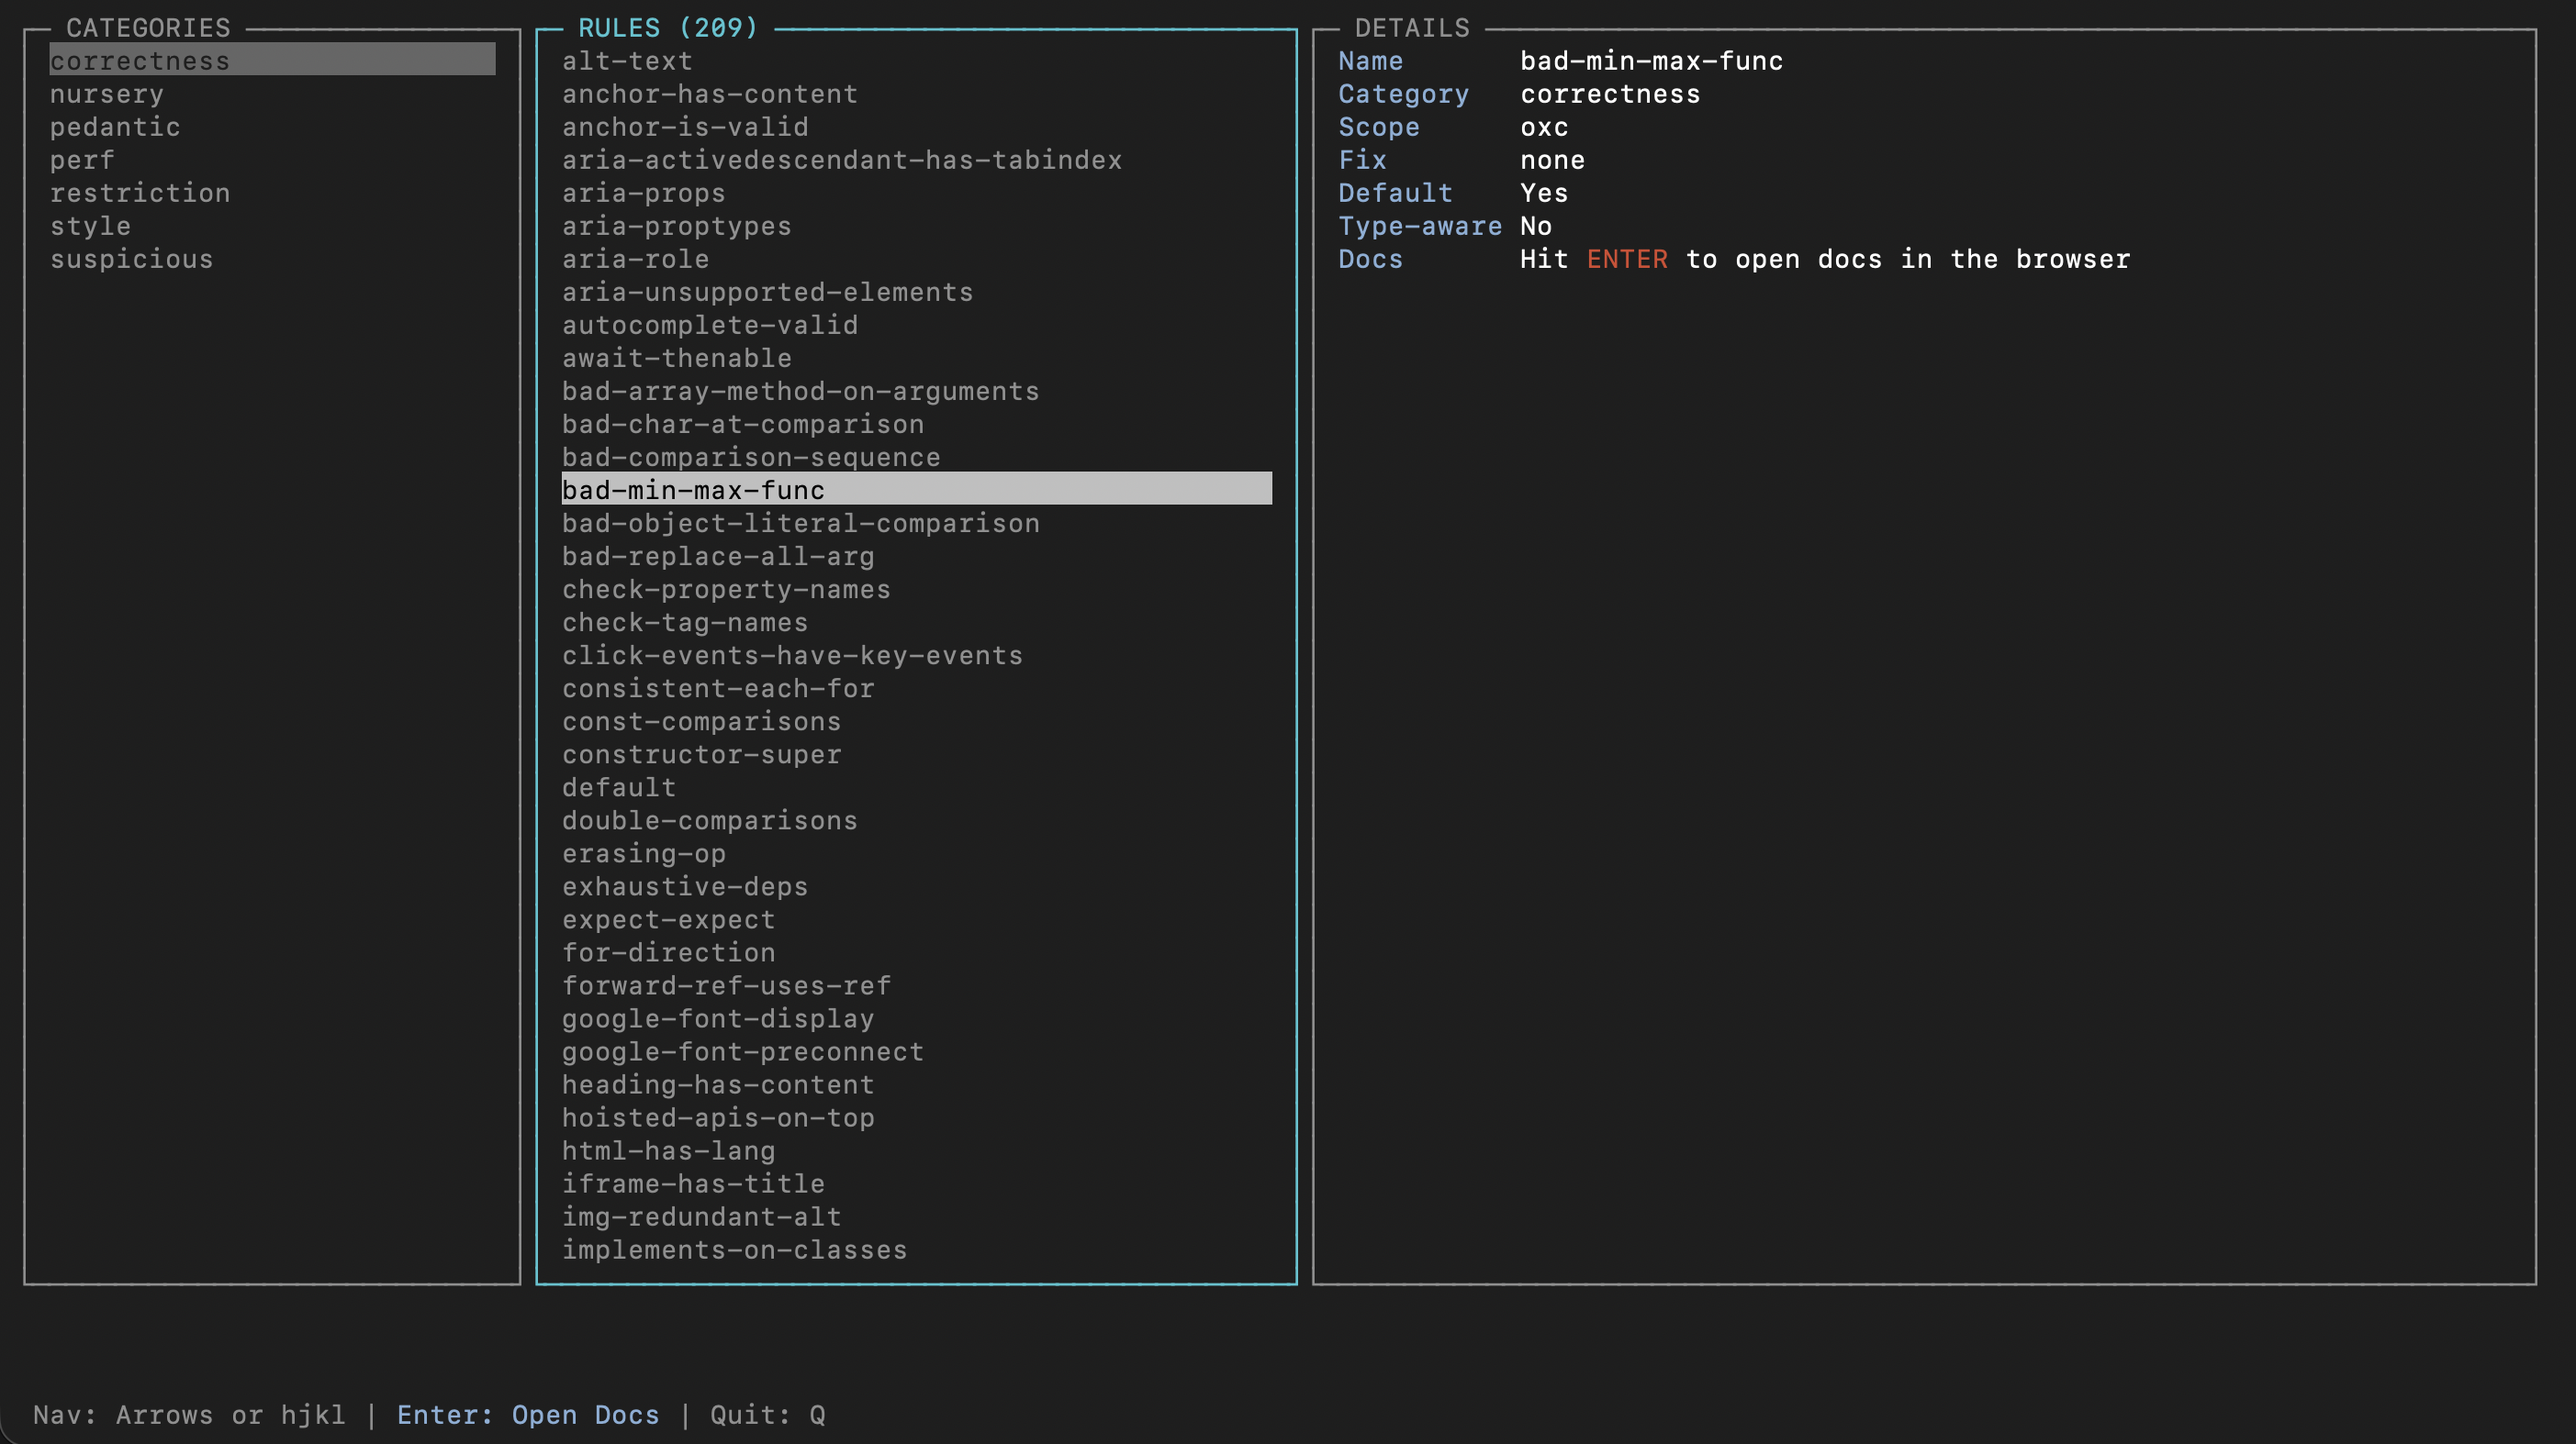
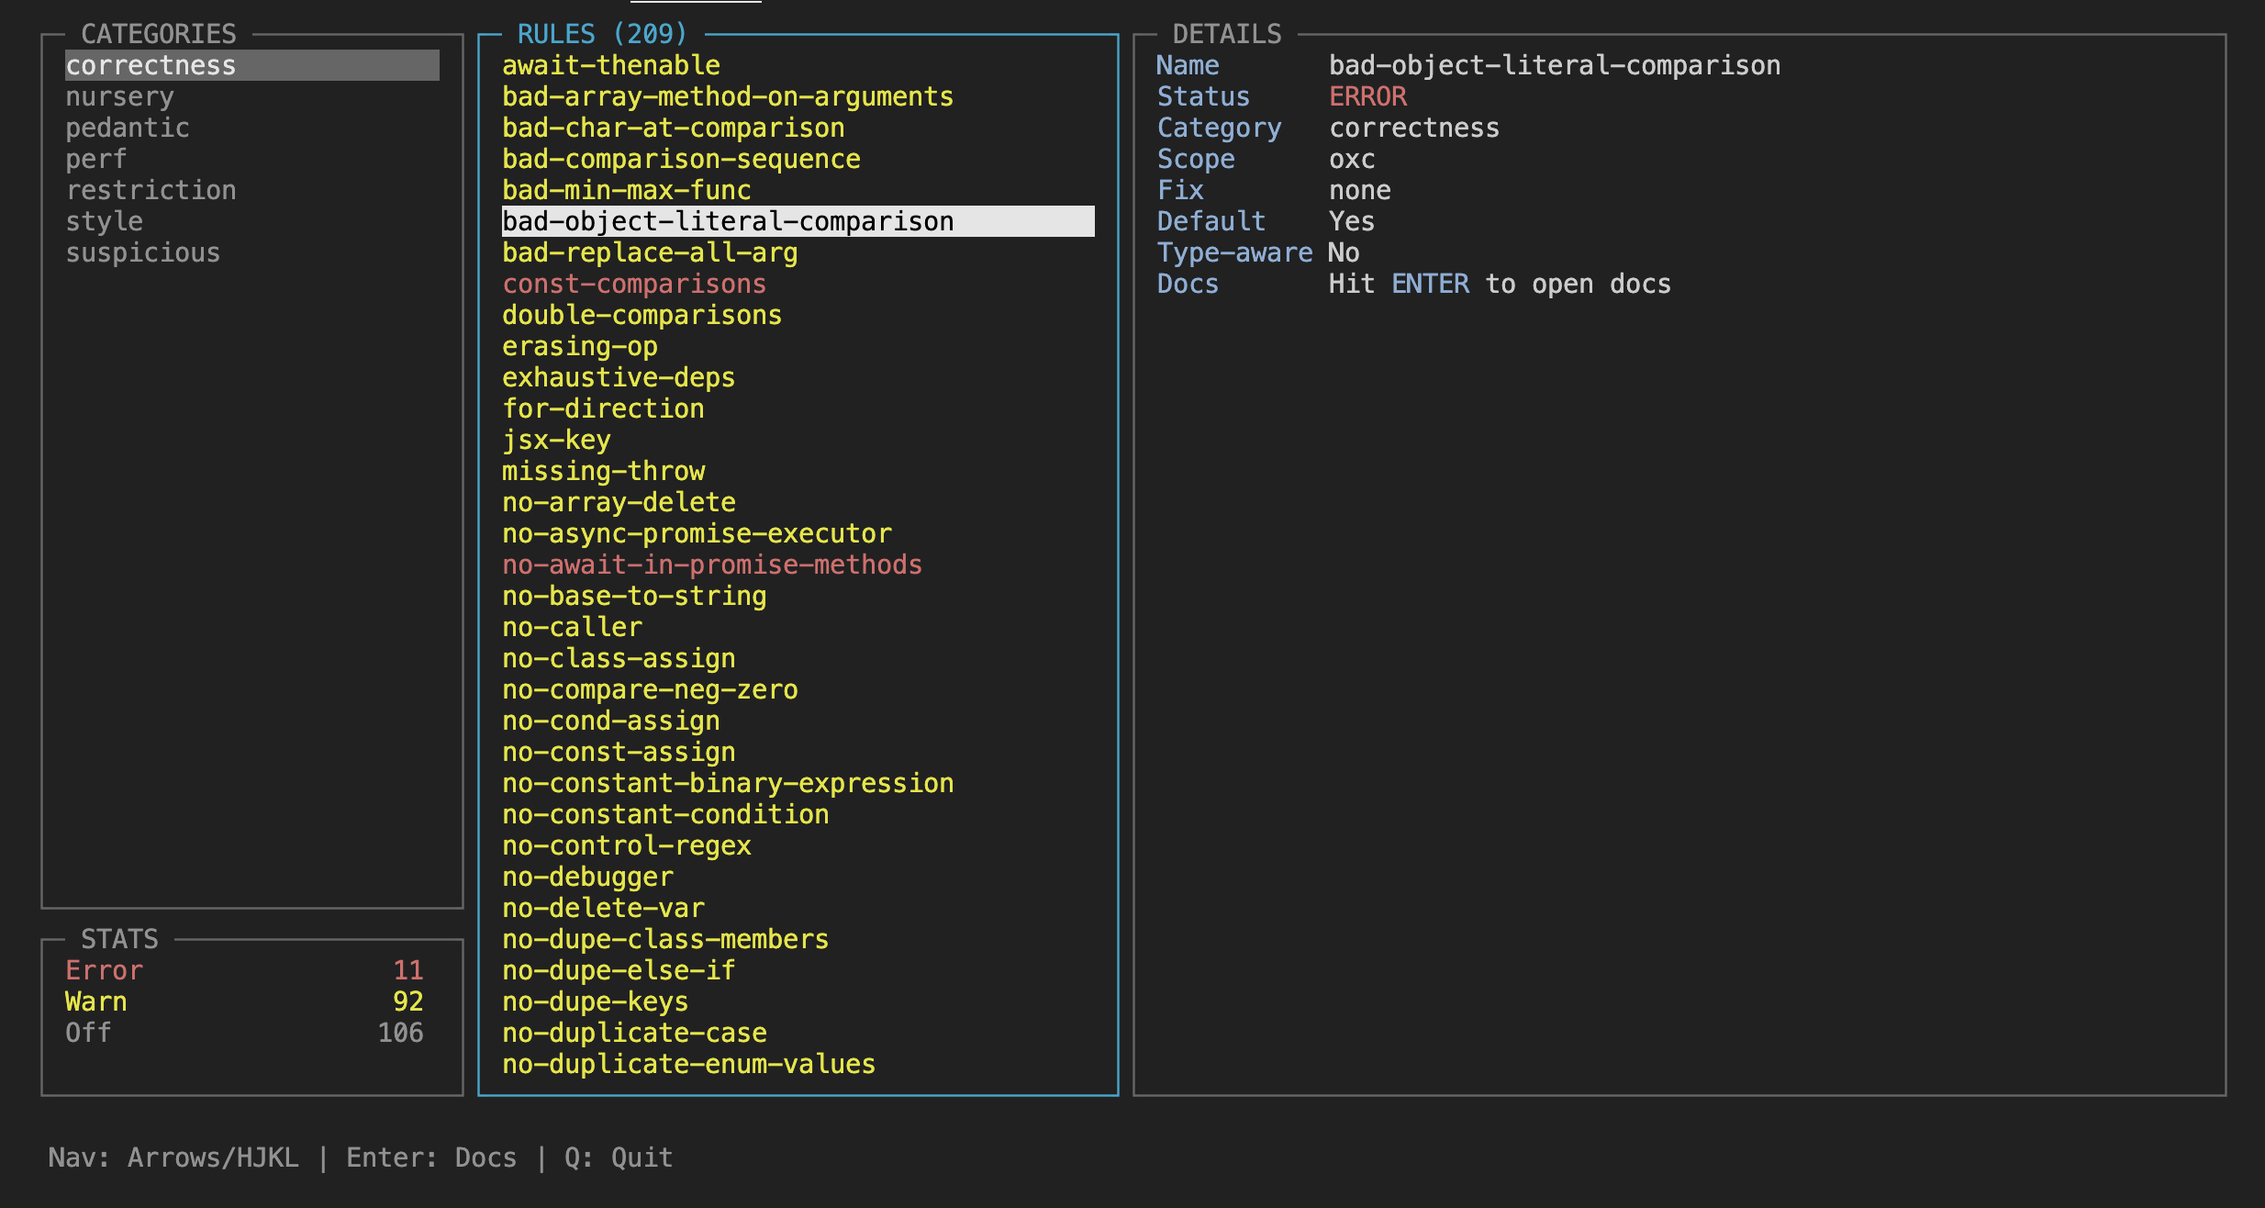
feat: read the config file

diff --git a/tui.js b/tui.js
@@ -1,32 +1,35 @@
 #!/usr/bin/env node
 
 import { execSync, exec } from 'node:child_process';
-import { stdout, stdin, exit, platform } from 'node:process';
+import { stdout, stdin, exit, platform, argv } from 'node:process';
 import readline from 'node:readline';
+import fs from 'node:fs';
 
 const COLORS = {
-    reset:          '\x1b[0m',
-    dim:            '\x1b[90m',
-    highlight:      '\x1b[38;5;110m',
-    selectedBg:     '\x1b[47m\x1b[30m',
-    borderActive:   '\x1b[36m',
+    reset: '\x1b[0m',
+    dim: '\x1b[90m',
+    highlight: '\x1b[38;5;110m',
+    selectedBg: '\x1b[47m\x1b[30m',
+    borderActive: '\x1b[36m',
     borderInactive: '\x1b[90m',
-    error:          '\x1b[31m',
+    error: '\x1b[31m',
+    warn: '\x1b[33m',
+    success: '\x1b[32m',
 };
 
 const KEY_MAP = {
-    'k':      { type: 'MOVE_UP'    },
-    'up':     { type: 'MOVE_UP'    },
-    'down':   { type: 'MOVE_DOWN'  },
-    'j':      { type: 'MOVE_DOWN'  },
-    'left':   { type: 'MOVE_LEFT'  },
-    'h':      { type: 'MOVE_LEFT'  },
-    'right':  { type: 'MOVE_RIGHT' },
-    'l':      { type: 'MOVE_RIGHT' },
-    'return': { type: 'OPEN_DOCS'  },
-    'enter':  { type: 'OPEN_DOCS'  },
-    'q':      { type: 'EXIT'       },
-    'escape': { type: 'EXIT'       }
+    'k': { type: 'MOVE_UP' },
+    'up': { type: 'MOVE_UP' },
+    'down': { type: 'MOVE_DOWN' },
+    'j': { type: 'MOVE_DOWN' },
+    'left': { type: 'MOVE_LEFT' },
+    'h': { type: 'MOVE_LEFT' },
+    'right': { type: 'MOVE_RIGHT' },
+    'l': { type: 'MOVE_RIGHT' },
+    'return': { type: 'OPEN_DOCS' },
+    'enter': { type: 'OPEN_DOCS' },
+    'q': { type: 'EXIT' },
+    'escape': { type: 'EXIT' }
 };
 
 function reducer(state, action) {
@@ -34,6 +37,9 @@ function reducer(state, action) {
     const currentCat = categories[selectedCatIdx];
     const currentRules = rulesByCategory[currentCat] || [];
     const viewHeight = stdout.rows - 6;
+
+    const statsHeight = 7;
+    const catViewHeight = viewHeight - statsHeight;
 
     switch (action.type) {
         case 'MOVE_RIGHT':
@@ -50,7 +56,7 @@ function reducer(state, action) {
                     selectedCatIdx: nextIdx,
                     selectedRuleIdx: 0,
                     scrollRule: 0,
-                    scrollCat: updateScroll(nextIdx, state.scrollCat, viewHeight)
+                    scrollCat: updateScroll(nextIdx, state.scrollCat, catViewHeight)
                 };
             } else if (activePane === 1) {
                 const nextIdx = selectedRuleIdx === 0 ? currentRules.length - 1 : selectedRuleIdx - 1;
@@ -70,7 +76,7 @@ function reducer(state, action) {
                     selectedCatIdx: nextIdx,
                     selectedRuleIdx: 0,
                     scrollRule: 0,
-                    scrollCat: updateScroll(nextIdx, state.scrollCat, viewHeight)
+                    scrollCat: updateScroll(nextIdx, state.scrollCat, catViewHeight)
                 };
             } else if (activePane === 1) {
                 const nextIdx = selectedRuleIdx === currentRules.length - 1 ? 0 : selectedRuleIdx + 1;
@@ -87,22 +93,97 @@ function reducer(state, action) {
     }
 }
 
+function getRuleStatus(ruleName, category, config) {
+    if (config.rules) {
+        let val = config.rules[ruleName];
+
+        // Ignore the prefix to match format in --rules
+        if (val === undefined) {
+            const foundKey = Object.keys(config.rules).find(key => key.endsWith(`/${ruleName}`));
+            if (foundKey) {
+                val = config.rules[foundKey];
+            }
+        }
+
+        if (val !== undefined) {
+            if (Array.isArray(val)) return val[0];
+            return val;
+        }
+    }
+
+    if (config.categories && config.categories[category]) {
+        return config.categories[category];
+    }
+    return 'off';
+}
+
 function loadRules() {
+    let rulesData;
+    let config = { rules: {}, categories: {} };
+
     try {
         const raw = execSync('npx oxlint --rules --format=json', { encoding: 'utf8', stdio: ['ignore', 'pipe', 'ignore'] });
-        const data = JSON.parse(raw);
-        console.log(data)
+        rulesData = JSON.parse(raw);
+    } catch (e) {
+        console.error(`${COLORS.error}Error: Could not run 'npx oxlint'. Ensure oxlint is installed.${COLORS.reset}`);
+        exit(1);
+    }
+
+    const userConfigPath = argv[2];
+    let configPathToLoad = null;
+
+    if (userConfigPath) {
+        if (!fs.existsSync(userConfigPath)) {
+            console.error(`${COLORS.error}Error: Config file '${userConfigPath}' not found.${COLORS.reset}`);
+            exit(1);
+        }
+        configPathToLoad = userConfigPath;
+    } else if (fs.existsSync('.oxlintrc.json')) {
+        configPathToLoad = '.oxlintrc.json';
+    }
+
+    if (configPathToLoad) {
+        try {
+            const configFile = fs.readFileSync(configPathToLoad, 'utf8');
+            config = JSON.parse(configFile);
+        } catch (e) {
+            console.error(`${COLORS.error}Error: Failed to parse '${configPathToLoad}'.${COLORS.reset}`);
+            console.error(`${COLORS.warn}${e.message}${COLORS.reset}`);
+            exit(1);
+        }
+    }
+
+    try {
         const map = {};
-        data.forEach(rule => {
+
+        rulesData.forEach(rule => {
             const cat = rule.category || 'Uncategorized';
             if (!map[cat]) map[cat] = [];
-            map[cat].push(rule);
+
+            const status = getRuleStatus(rule.value, cat, config);
+
+            map[cat].push({
+                ...rule,
+                configStatus: status,
+                isActive: status === 'error' || status === 'warn'
+            });
         });
+
         const categories = Object.keys(map).sort();
-        categories.forEach(c => map[c].sort((a, b) => a.value.localeCompare(b.value)));
+
+        // Sort rules - active first, then Alphabetical
+        categories.forEach(c => {
+            map[c].sort((a, b) => {
+                if (a.isActive && !b.isActive) return -1;
+                if (!a.isActive && b.isActive) return 1;
+                return a.value.localeCompare(b.value);
+            });
+        });
+
         return { categories, rulesByCategory: map };
     } catch (e) {
-        console.error(`${COLORS.error}Error: Could not run 'npx oxlint'.${COLORS.reset}`);
+        console.error(`${COLORS.error}Error: Something went wrong processing rules.${COLORS.reset}`);
+        console.error(e);
         exit(1);
     }
 }
@@ -135,7 +216,9 @@ const exitAltScreen = () => write('\x1b[?1049l\x1b[?25h');
 function drawBox(buffer, x, y, width, height, title, items, selectedIdx, scrollOffset, isActive) {
     const borderColor = isActive ? COLORS.borderActive : COLORS.borderInactive;
     const titleClean = title.length > width - 6 ? title.substring(0, width - 7) + '…' : title;
-    buffer.push(`\x1b[${y};${x}H${borderColor}┌─ ${titleClean} `.padEnd(width + borderColor.length - 1, '─') + `┐${COLORS.reset}`);
+
+    const topBorder = `${borderColor}┌─ ${titleClean} `.padEnd(width + borderColor.length - 1, '─');
+    buffer.push(`\x1b[${y};${x}H${topBorder}┐${COLORS.reset}`);
 
     for (let i = 1; i < height - 1; i++) {
         buffer.push(`\x1b[${y + i};${x}H${borderColor}│${' '.repeat(width - 2)}│${COLORS.reset}`);
@@ -143,37 +226,97 @@ function drawBox(buffer, x, y, width, height, title, items, selectedIdx, scrollO
     buffer.push(`\x1b[${y + height - 1};${x}H${borderColor}└${'─'.repeat(width - 2)}┘${COLORS.reset}`);
 
     const innerHeight = height - 2;
+
     items.slice(scrollOffset, scrollOffset + innerHeight).forEach((item, i) => {
         const absIdx = scrollOffset + i;
-        const text = (item.value || item).toString();
-        const display = text.length > width - 4 ? text.substring(0, width - 5) + '…' : text.padEnd(width - 4);
+        const rawText = (item.value || item).toString();
+        let display = rawText.length > width - 4 ? rawText.substring(0, width - 5) + '…' : rawText.padEnd(width - 4);
+
+        let itemColor = COLORS.dim;
+        if (item.configStatus === 'error') itemColor = COLORS.error;
+        else if (item.configStatus === 'warn') itemColor = COLORS.warn;
+        else if (item.isActive) itemColor = COLORS.success;
+
         buffer.push(`\x1b[${y + 1 + i};${x + 2}H`);
+
         if (absIdx === selectedIdx) {
-            buffer.push(isActive ? `${COLORS.selectedBg}${display}${COLORS.reset}` : `${COLORS.dim}\x1b[7m${display}${COLORS.reset}`);
+            buffer.push(isActive
+                ? `${COLORS.selectedBg}${display}${COLORS.reset}`
+                : `${COLORS.dim}\x1b[7m${display}${COLORS.reset}`);
         } else {
-            buffer.push(`${COLORS.dim}${display}${COLORS.reset}`);
+            buffer.push(`${itemColor}${display}${COLORS.reset}`);
+        }
+    });
+}
+
+function drawStats(buffer, x, y, width, height, rules) {
+    const borderColor = COLORS.borderInactive;
+
+    const topBorder = `${borderColor}┌─ STATS `.padEnd(width + borderColor.length - 1, '─');
+    buffer.push(`\x1b[${y};${x}H${topBorder}┐${COLORS.reset}`);
+
+    for (let i = 1; i < height - 1; i++) buffer.push(`\x1b[${y + i};${x}H${borderColor}│${' '.repeat(width - 2)}│${COLORS.reset}`);
+    buffer.push(`\x1b[${y + height - 1};${x}H${borderColor}└${'─'.repeat(width - 2)}┘${COLORS.reset}`);
+
+    let counts = { error: 0, warn: 0, off: 0 };
+    rules.forEach(r => {
+        if (r.configStatus === 'error') counts.error++;
+        else if (r.configStatus === 'warn') counts.warn++;
+        else counts.off++;
+    });
+
+    const lines = [
+        { label: 'Error', count: counts.error, color: COLORS.error },
+        { label: 'Warn', count: counts.warn, color: COLORS.warn },
+        { label: 'Off', count: counts.off, color: COLORS.dim }
+    ];
+
+    lines.forEach((line, i) => {
+        if (i < height - 2) {
+            const numStr = String(line.count).padStart(3);
+            const labelStr = line.label.padEnd(width - 8);
+            buffer.push(`\x1b[${y + 1 + i};${x + 2}H${line.color}${labelStr}${numStr}${COLORS.reset}`);
         }
     });
 }
 
 function drawDetails(buffer, x, y, width, height, rule, isActive) {
     const borderColor = isActive ? COLORS.borderActive : COLORS.borderInactive;
-    buffer.push(`\x1b[${y};${x}H${borderColor}┌─ DETAILS `.padEnd(width + borderColor.length - 1, '─') + `┐${COLORS.reset}`);
+
+    const topBorder = `${borderColor}┌─ DETAILS `.padEnd(width + borderColor.length - 1, '─');
+    buffer.push(`\x1b[${y};${x}H${topBorder}┐${COLORS.reset}`);
+
     for (let i = 1; i < height - 1; i++) buffer.push(`\x1b[${y + i};${x}H${borderColor}│${' '.repeat(width - 2)}│${COLORS.reset}`);
     buffer.push(`\x1b[${y + height - 1};${x}H${borderColor}└${'─'.repeat(width - 2)}┘${COLORS.reset}`);
 
     if (!rule) return;
+
+    let statusDisplay = rule.configStatus.toUpperCase();
+    if (rule.configStatus === 'error') statusDisplay = `${COLORS.error}${statusDisplay}${COLORS.reset}`;
+    else if (rule.configStatus === 'warn') statusDisplay = `${COLORS.warn}${statusDisplay}${COLORS.reset}`;
+    else statusDisplay = `${COLORS.dim}${statusDisplay}${COLORS.reset}`;
+
     const labels = [
-        ['Name',        rule.value    ],
-        ['Category',    rule.category ],
-        ['Scope',       rule.scope    ],
-        ['Fix',         rule.fix      ],
-        ['Default',     rule.default    ? 'Yes' : 'No' ],
-        ['Type-aware',  rule.type_aware ? 'Yes' : 'No' ],
-        ['Docs',        `Hit ${COLORS.highlight}ENTER${COLORS.reset} to open docs in the browser` ]
+        ['Name', rule.value],
+        ['Status', statusDisplay],
+        ['Category', rule.category],
+        ['Scope', rule.scope],
+        ['Fix', rule.fix],
+        ['Default', rule.default ? 'Yes' : 'No'],
+        ['Type-aware', rule.type_aware ? 'Yes' : 'No'],
+        ['Docs', `Hit ${COLORS.highlight}ENTER${COLORS.reset} to open docs`]
     ];
+
     let line = 0;
     labels.forEach(([lbl, val]) => {
+        if (lbl === 'Status') {
+            if (line < height - 2) {
+                buffer.push(`\x1b[${y + 1 + line};${x + 2}H${COLORS.highlight}${lbl.padEnd(10)} ${COLORS.reset}${val}`);
+                line++;
+            }
+            return;
+        }
+
         const chunks = chunkString(String(val || 'N/A'), width - 15);
         chunks.forEach((chunk, i) => {
             if (line < height - 2) {
@@ -191,16 +334,21 @@ function render() {
     const rule = rules[state.selectedRuleIdx];
 
     const boxHeight = rows - 4;
+
     const col1W = Math.floor(columns * 0.2);
     const col2W = Math.floor(columns * 0.3);
     const col3W = columns - col1W - col2W - 2;
 
+    const statsHeight = 6;
+    const catListHeight = boxHeight - statsHeight;
+
     const buffer = ['\x1b[H\x1b[J'];
-    drawBox(buffer, 1, 1, col1W, boxHeight, 'CATEGORIES', state.categories, state.selectedCatIdx, state.scrollCat, state.activePane === 0);
+
+    drawBox(buffer, 1, 1, col1W, catListHeight, 'CATEGORIES', state.categories, state.selectedCatIdx, state.scrollCat, state.activePane === 0);
+    drawStats(buffer, 1, 1 + catListHeight, col1W, statsHeight, rules);
     drawBox(buffer, col1W + 1, 1, col2W, boxHeight, `RULES (${rules.length})`, rules, state.selectedRuleIdx, state.scrollRule, state.activePane === 1);
     drawDetails(buffer, col1W + col2W + 1, 1, col3W, boxHeight, rule, state.activePane === 2);
-
-    buffer.push(`\x1b[${rows};2H${COLORS.dim}Nav: Arrows/HJKL | Enter: Docs | Q: Quit${COLORS.reset}`);
+    buffer.push(`\x1b[${rows - 2};2H${COLORS.dim}Nav: Arrows/HJKL | Enter: Docs | Q: Quit${COLORS.reset}`);
     write(buffer.join(''));
 }
 
@@ -216,7 +364,7 @@ let state = {
 readline.emitKeypressEvents(stdin);
 if (stdin.isTTY) stdin.setRawMode(true);
 
-stdin.on('keypress', (str, key) => {
+stdin.on('keypress', (_, key) => {
     const action = KEY_MAP[key.name] || (key.ctrl && key.name === 'c' ? { type: 'EXIT' } : null);
     if (!action) return;
 

diff --git a/README.md b/README.md
@@ -9,5 +9,7 @@ A lightweight, dependency-free Node.js Terminal User Interface for browsing [oxl
 Run the command in your terminal:
 
 ```bash
-npm run tui
+node tui.js < path to .oxlintrc.json >
 ```
+
+If no path argument is provided, tries to read `.oxlintrc.json` in the running directory.
